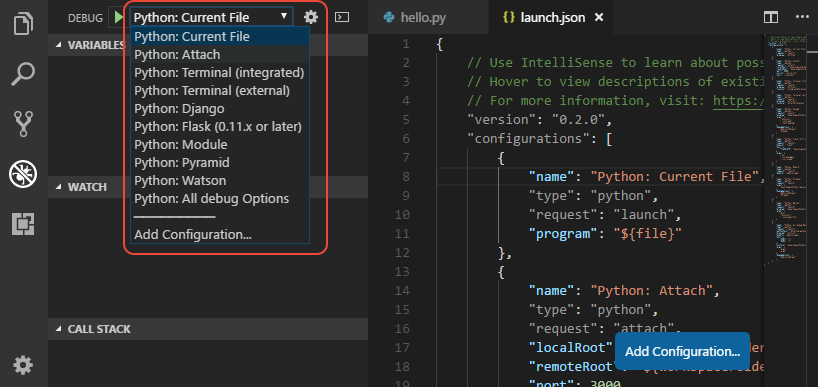
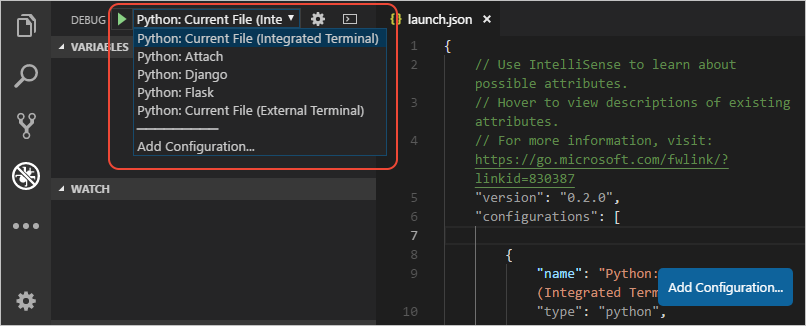
New debugger info (remove experimental)

diff --git a/docs/python/debugging.md b/docs/python/debugging.md
@@ -4,7 +4,7 @@ Area: python
 TOCTitle: Debugging
 ContentId: 3d9e6bcf-eae8-4c94-b857-89225b5c4ab5
 PageTitle: Python debugging configurations in Visual Studio Code
-DateApproved: 07/30/2018
+DateApproved: 08/30/2018
 MetaDescription: Details on configuring the Visual Studio Code debugger for different Python applications.
 MetaSocialImage: images/tutorial/social.png
 ---
@@ -14,7 +14,11 @@ The Python extension supports debugging of a number of types of Python applicati
 
 To familiarize yourself with VS Code's *general* debugging capabilities, such as examining local variables, the watch window, arguments, breakpoints, loading symbols, and more, review [VS Code debugging](/docs/editor/debugging.md).
 
-This present article addresses only those considerations that are specific to Python, mainly Python-specific debugging *configurations*. A configuration drives VS Code's behavior during a debugging session. Configurations are defined in a `launch.json` file that's stored in a `.vscode` folder in your workspace.
+This present article addresses only those considerations that are specific to Python, mainly Python-specific debugging *configurations*, including the necessary steps for specific app types and remote debugging.
+
+## Initialize configurations
+
+A configuration drives VS Code's behavior during a debugging session. Configurations are defined in a `launch.json` file that's stored in a `.vscode` folder in your workspace.
 
 To initialize debug configurations, first select the Debug View in the sidebar:
 
@@ -28,20 +32,9 @@ To generate a `launch.json` file with Python configurations, do the following st
 
 1. Select the settings button (circled in the image above) or use the **Debug** > **Open configurations** menu command.
 
-1. In the list of debuggers that appears, select **Python**. (You can also use **Python Experimental** if you'd like, which is work in progress. See [Issue 538](https://github.com/Microsoft/vscode-python/issues/538) (GitHub). The experimental debugger is faster and also supports [Logpoints](/docs/editor/debugging.md#logpoints).)
+1. In the list of debuggers that appears, select **Python**.
 
-1. The Python extension then creates and opens a `launch.json` file that contains number of pre-defined configurations.
-
-You can always open `launch.json` from the Explorer, or use the Debug View settings icon. You're also free to add any other configurations you want. It's often helpful in a project to create a configuration that runs a specific startup file. For example, if you always want to always launch `startup.py` whenever you start the debugger, create a configuration entry as follows:
-
-```json
-{
-    "name": "Python: startup.py",
-    "type": "python",
-    "request": "launch",
-    "program": "${workspaceFolder}/startup.py",
-},
-```
+1. The Python extension then creates and opens a `launch.json` file that contains number of pre-defined configurations. You can add custom configurations as well.
 
 The details of configuration properties are covered later in this article under [Standard configuration and options](#standard-configuration-and-options). Additional configurations are also described in this article under [Debugging specific app types](#debugging-specific-app-types).
 
@@ -51,28 +44,55 @@ To select a debugging configuration, select the Debug View in the sidebar, then 
 
 ![Selecting a debug configuration](images/debugging/debug-configurations.png)
 
+> **Note**: Previous versions of the Python extension used slightly different names for the configurations as shown in the above graphic, but they generally work the same.
+
+By default, VS Code shows only the most common configurations provided by the Python extension. You can select other configurations to include in `launch.json` by using the **Add Configuration** command shown in the list and in the the`launch.json` editor. When you use the command, VS Code prompts you with a list of all available configurations (be sure to scroll down to see  all the Python options):
+
+![Adding a new Python debugging configurations](images/debugging/add-configuration.png)
+
+See [Debugging specific app types](#debugging-specific-app-types) for details on all of these configurations.
+
 While debugging, the Status Bar shows the current configuration on the lower left, with the current debugging interpreter to the right. Selecting the configuration brings up the list from which you can choose a different configuration:
 
 ![Debugging Status Bar](images/debugging/debug-status-bar.png)
 
-By default, the debugger uses the same `python.pythonPath` Workspace setting as for other features of VS Code. To use a different interpreter for debugging specifically, set the value for `pythonPath` in the applicable debugger configuration. Alternately, select the named interpreter on the Status Bar to select a different one.
+By default, the debugger uses the same `python.pythonPath` workspace setting as for other features of VS Code. To use a different interpreter for debugging specifically, set the value for `pythonPath` in the applicable debugger configuration. Alternately, select the named interpreter on the Status Bar to select a different one.
 
 > **Note**: The debugger settings don't support relative paths, including when relying on the main `python.pythonPath` setting. To work around this, use an environment variable, or create a variable such as `${workspaceFolder}` that resolves to your project folder, then use that variable in the path, as in `"python.pythonPath": "${workspaceFolder}/venv/bin/python"`.
 
 ## Standard configuration and options
 
-Standard configuration for `launch.json`:
+There are two standard configurations in `launch.json` that run the active file in the editor in either the integrated terminal (inside VS Code) or the external terminal (outside of VS Code):
 
 ```json
 {
-    "name": "Python: Current File",
+    "name": "Python: Current File (Integrated Terminal)",
     "type": "python",
     "request": "launch",
     "program": "${file}",
+    "console": "integratedTerminal"
+},
+{
+    "name": "Python: Current File (External Terminal)",
+    "type": "python",
+    "request": "launch",
+    "program": "${file}",
+    "console": "externalTerminal"
 }
 ```
 
-Custom configurations for various settings are described in the following sections.
+The specific settings are described in the following sections.
+
+> **Tip**: It's often helpful in a project to create a configuration that runs a specific startup file. For example, if you always want to always launch `startup.py` whenever you start the debugger, create a configuration entry as follows:
+>
+> ```json
+> {
+>     "name": "Python: startup.py",
+>     "type": "python",
+>     "request": "launch",
+>     "program": "${workspaceFolder}/startup.py",
+> },
+> ```
 
 ### `name`
 
@@ -171,7 +191,7 @@ An array of additional options that may contain the following:
 | `"DebugStdLib"` | Enabled debugging of standard library functions. |
 | `"Django"` | Activates debugging features specific to the Django web framework. |
 | `"Sudo"` | When used with `"console": "externalTerminal"`, allows for debugging apps that require elevation. Using an external console is necessary to capture the password. |
-| `"Pyramid"` | Used when debugging a Pyramid application. |
+| `"Pyramid"` | When set to true, ensures that a Pyramid app is launched with [the necessary pserve command](https://docs.pylonsproject.org/projects/pyramid/en/latest/narr/startup.html?highlight=pserve). |
 
 ### `env`
 
@@ -223,11 +243,11 @@ Remote debugging allows you to step through a program locally within VS Code whi
 
 1. Local computer: switch to Debug View in VS Code, select the **Python: Attach** configuration, then select the settings (gear) icon to open `launch.json` to that configuration.
 
-1. Local computer: Modify the configuration so that `remoteRoot` provide the location of the program on the remote computer's file system. Also modify `host`, `port`, and `secret` to match the values in the `ptvsd.enable_attach` call added to the source code, except that you need to use the remote computer's public IP address for `host`. You might also change `name` to specifically identify the configuration. For example:
+1. Local computer: Modify the configuration so that `remoteRoot` provide the location of the program on the remote computer's file system. Also modify `host`, `port`, and `secret` to match the values in the `ptvsd.enable_attach` call added to the source code, except that you need to use the remote computer's public IP address for `host`. You might also change `name` to specifically identify the configuration that include the IP address. For example:
 
     ```js
     {
-        "name": "Python Attach (Remote Debug 1.2.3.4)",
+        "name": "Python Attach (Remote Debug 192.168.34.156)",
         "type": "python",
         "request": "attach",
         "localRoot": "${workspaceFolder}",
@@ -289,17 +309,14 @@ The configuration drop-down provides a variety of different options for general 
 
 | Configuration | Description |
 | --- | --- | --- |
-| PySpark | Runs the program using PySpark instead of the default interpreter, using platform-specific values for `pythonPath` as shown earlier under the [pythonPath option](#pythonpath). |
-| Python Module | Replaces `program` with the setting `"module": "module.name"` to debug a specific module. When using this configuration, replace the value with the desired module name. |
-| Integrated Terminal/Console | Adds the `"console": "integratedTerminal"` option to the standard configuration. |
-| External Terminal/Console | Adds the `"console": "externalTerminal"` option to the standard configuration. |
-| Django | Specifies `"program": "${workspaceFolder}/manage.py"` and `"args": ["runserver", "--noreload", "--nothreading"]`, and adds "Django" and "RedirectOutput" to `debugOptions`. Note that automatic reloading of Django apps is not possible while debugging. To debug Django HTML templates, add breakpoints to `templates`. |
+| Attach | See [Remote debugging](#remote-debugging) in the previous section. |
+| Django | Specifies `"program": "${workspaceFolder}/manage.py"`, `"args": ["runserver", "--noreload", "--nothreading"]`, and `"console": "integratedTerminal"`. Also adds `"django": true` to enable debugging of Django HTML templates. Note that automatic reloading of Django apps is not possible while debugging. |
 | Flask | See [Flask debugging](#flask-debugging) below. |
-| Pyramid | Removes `program`, adds `"args": ["${workspaceFolder}/development.ini"]`, and adds "Pyramid" and "RedirectOutput" to `debugOptions`. |
+| Gevent | Adds `"gevent": true` to the standard integrated terminal configuration. |
+| Pyramid | Removes `program`, adds `"args": ["${workspaceFolder}/development.ini"]`, adds `"jinja": true` for enabling template debugging, and adds `"pyramid": true` to ensure that the program is launched with [the necessary pserve command](https://docs.pylonsproject.org/projects/pyramid/en/latest/narr/startup.html?highlight=pserve). |
+| PySpark | Runs the program using PySpark instead of the default interpreter, using platform-specific values for `pythonPath` as shown earlier under the [pythonPath option](#pythonpath). |
+| Scrapy | Specifies `"module": "scrapy"`  and adds `"args": ["crawl", "specs", "-o", "bikes.json"]`. |
 | Watson | Specifies `"program": "${workspaceFolder}/console.py"` and `"args": ["dev", "runserver", "--noreload=True"]` |
-| Scrapy | Specifies `"program": "~/.virtualenvs/scrapy/bin/scrapy"`, adds the `"console": "integratedTerminal"` option, and adds `"args": ["crawl", "specs", "-o", "bikes.json"]`. |
-| Attach (Remote Debug) | See [Remote debugging](#remote-debugging) in the previous section. |
-| Gevent (Python Experimental only) | Sets `gevent` to `true` and `type` to `pythonExperimental`. |
 
 Specific steps are also needed for remote debugging and Google App Engine. For details on debugging unit tests (including nosetest), see [Unit testing](/docs/python/unit-testing.md).
 
@@ -309,7 +326,7 @@ To debug an app that requires administrator privileges, use `"console": "externa
 
 ```json
 {
-    "name": "Python: Flask (0.11.x or later)",
+    "name": "Python: Flask",
     "type": "python",
     "request": "launch",
     "module": "flask",
@@ -320,11 +337,14 @@ To debug an app that requires administrator privileges, use `"console": "externa
         "run",
         "--no-debugger",
         "--no-reload"
-    ]
+    ],
+    "jinja": true
 },
 ```
 
 As you can see, this configuration specifies `"env": {"FLASK_APP": "app.py"}` and `"args": ["run", "--no-debugger","--no-reload"]`. The `"module": "flask"` property is used instead of `program`. (You may see `"FLASK_APP": "${workspaceFolder}/app.py"` in the `env` property, in which case modify the configuration to refer to only the filename. Otherwise you may see "Cannot import module C" errors where C is a drive letter.)
+
+The `"jinja": true` setting also enables debugging for Flask's default Jinja templating engine.
 
 If you want to run Flask's development server in development mode, use the following configuration:
 
@@ -340,7 +360,8 @@ If you want to run Flask's development server in development mode, use the follo
     },
     "args": [
         "run"
-    ]
+    ],
+    "jinja": true
 },
 ```
 
